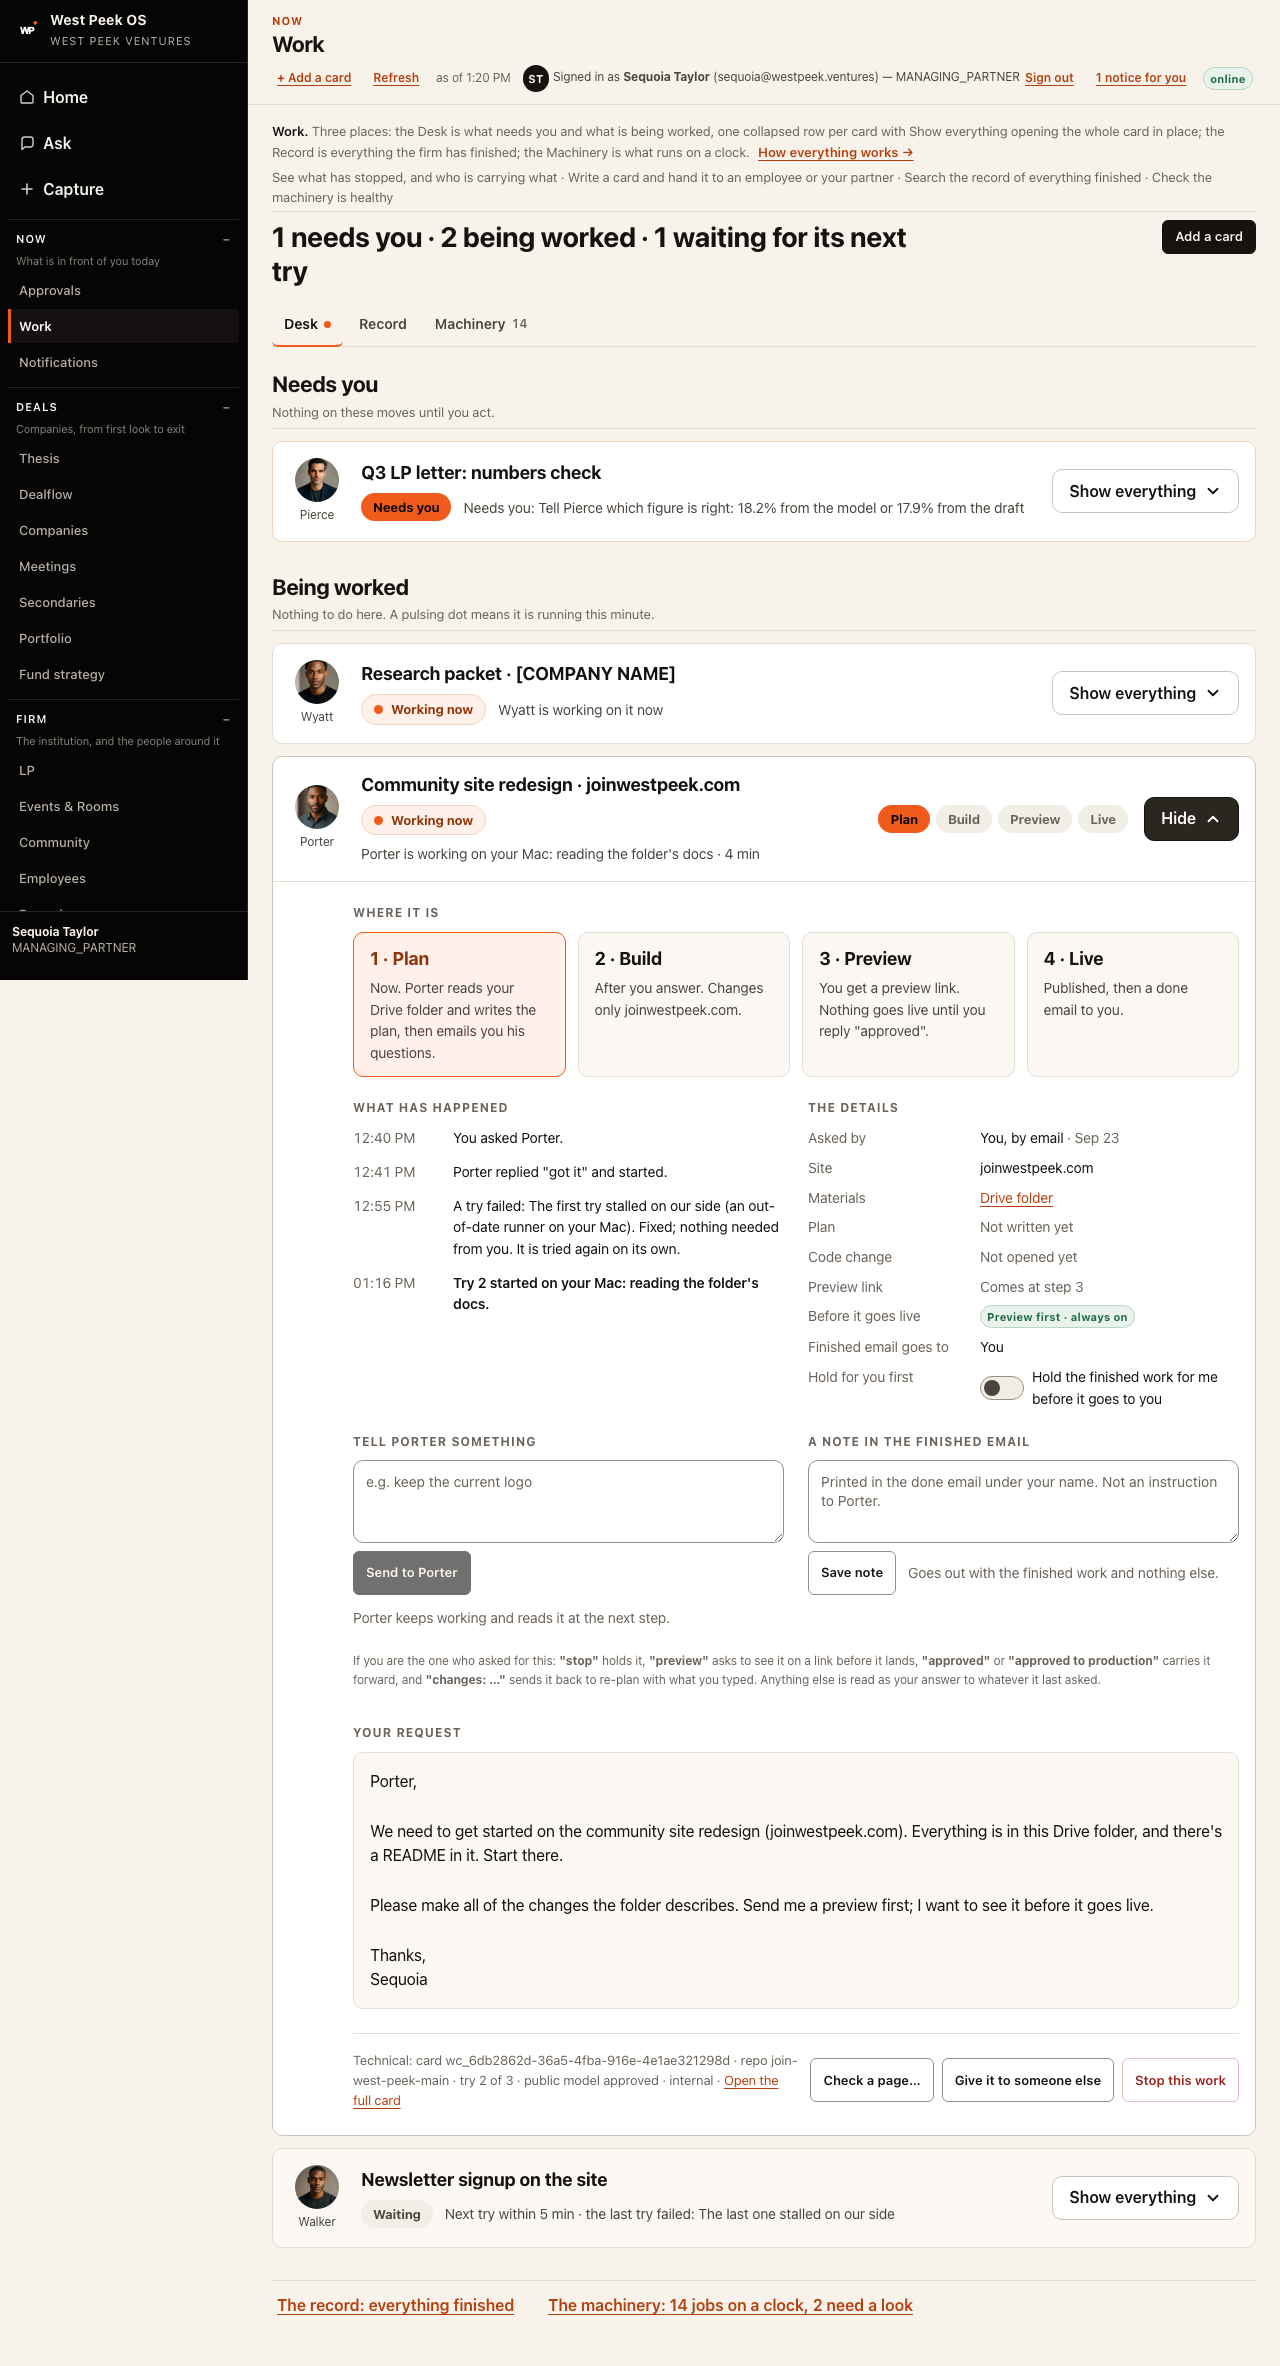
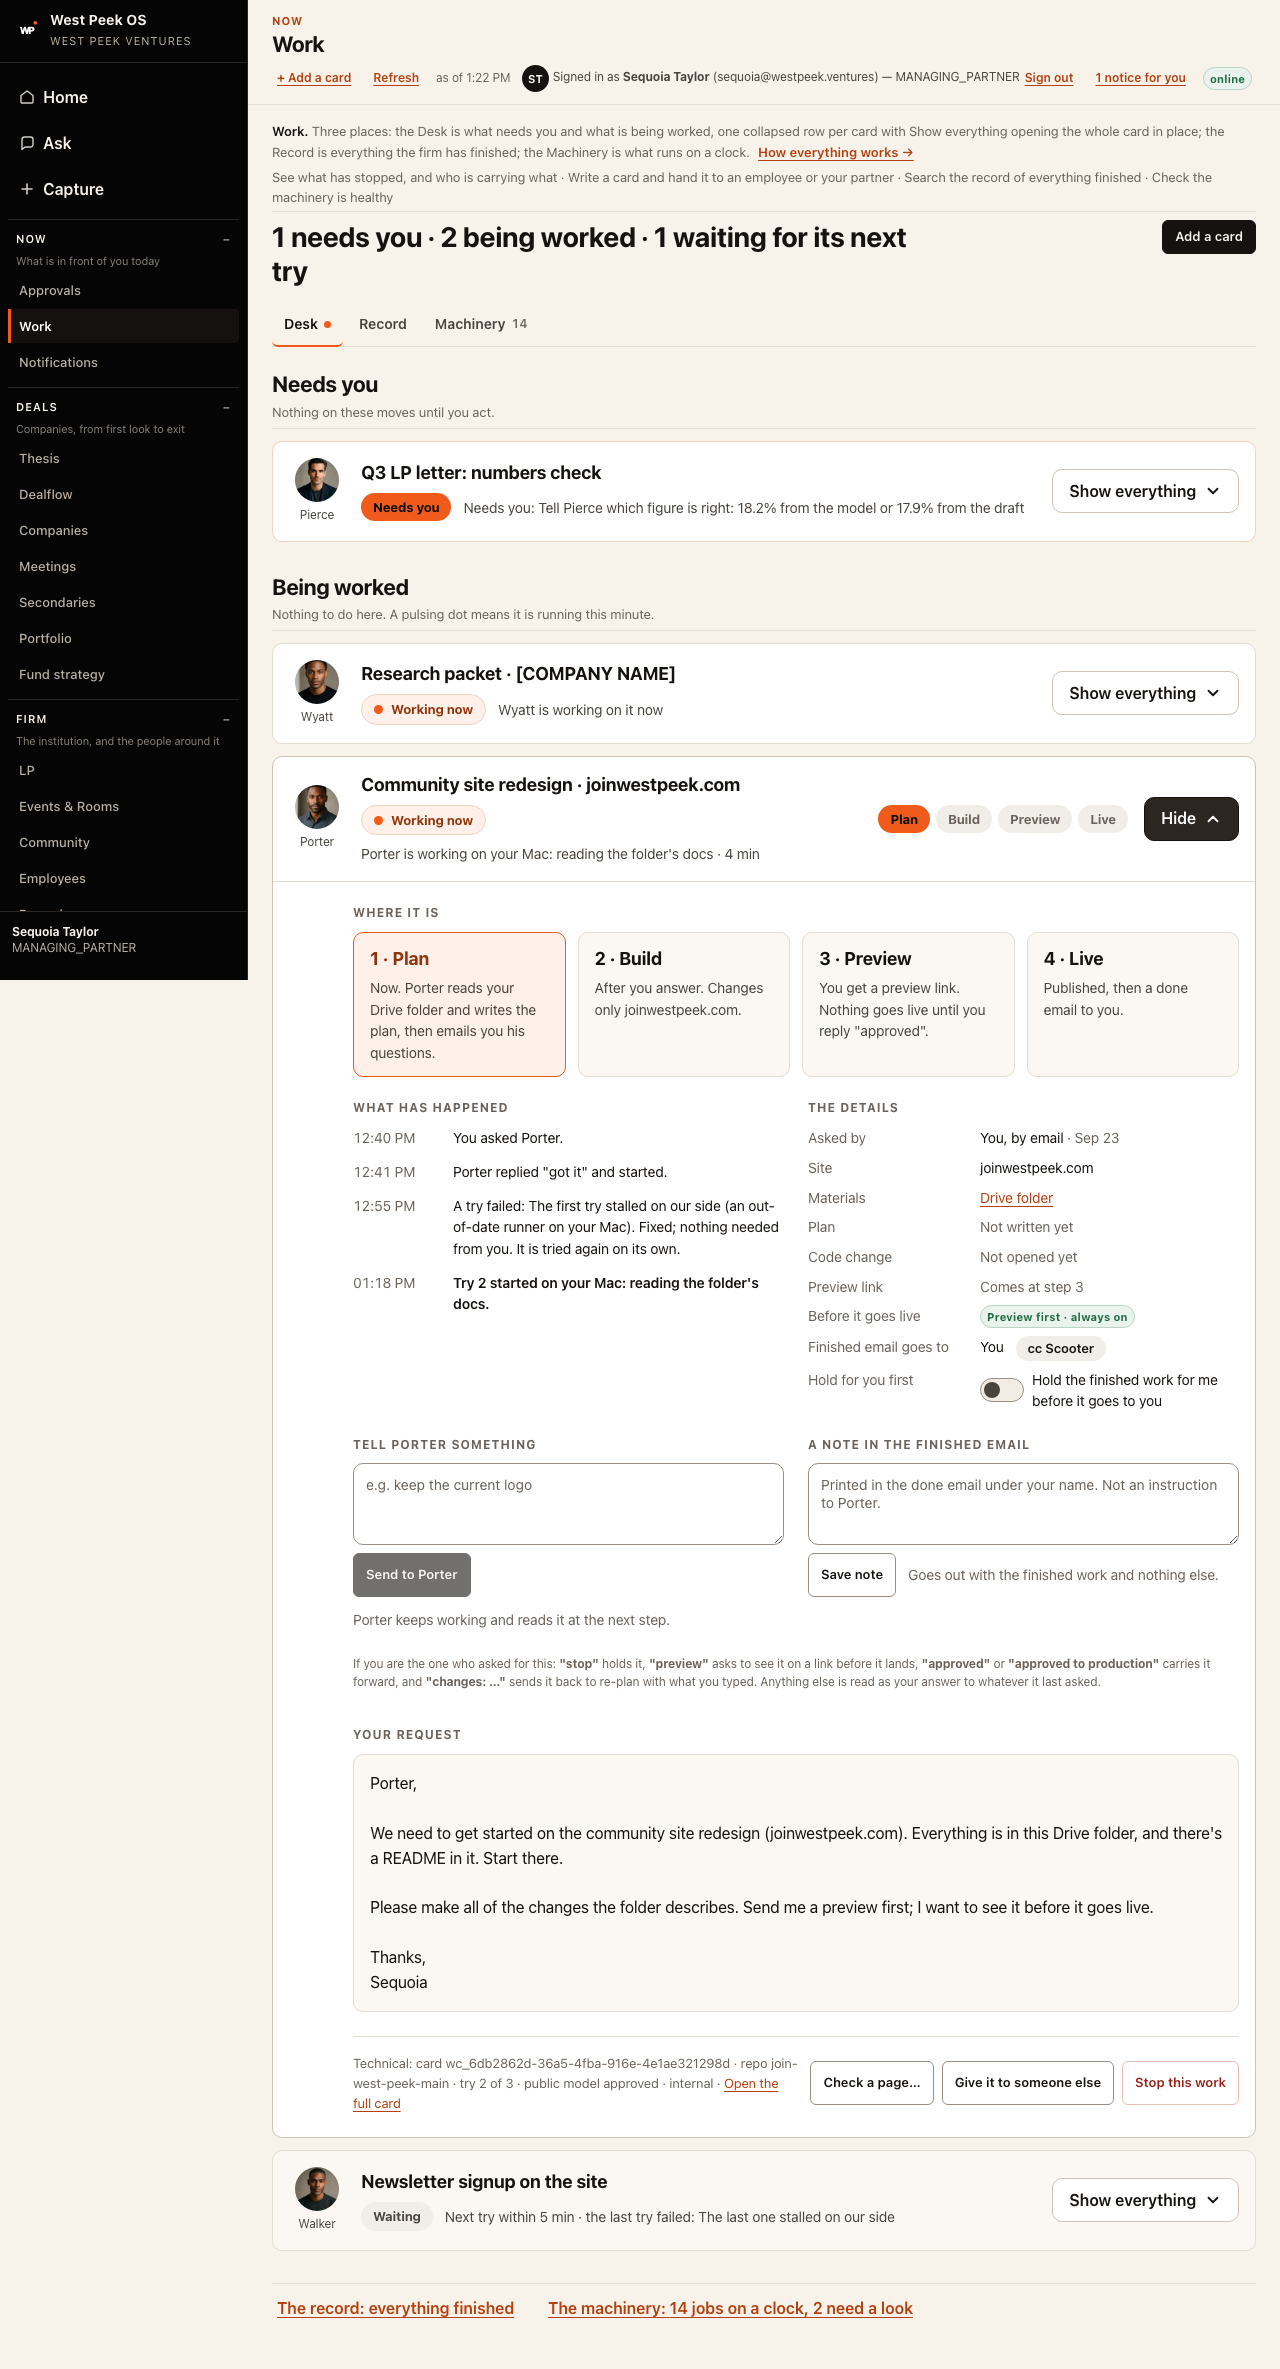
Finished email goes to: the cc chips from 0239 ("cc Scooter"), served on the board and pinned
Claude-Session: https://claude.ai/code/session_019F8z57N14BocFe6TBe7oiK

diff --git a/src/client/pages/work/CardExpanded.tsx b/src/client/pages/work/CardExpanded.tsx
@@ -56,6 +56,20 @@ export interface CardExpandedProps {
 
 const TRIES = 3;
 
+/** The partners cc'd on the finished email (0239), by first name — "cc Scooter". */
+function ccNames(json: string | null | undefined): string[] {
+  if (!json) return [];
+  try {
+    const list = JSON.parse(json) as unknown;
+    if (!Array.isArray(list)) return [];
+    return list
+      .filter((e): e is string => typeof e === "string" && e.trim().length > 0)
+      .map((e) => partnerByEmail(e)?.fullName.split(" ")[0] ?? e);
+  } catch {
+    return [];
+  }
+}
+
 /** The request as she wrote it, from the card's own `request_json`, before the site row exists. */
 function askFromRequest(json: string | null | undefined): string | null {
   if (!json) return null;
@@ -116,6 +130,17 @@ export function CardExpanded({
   const sitePreview = sitePreviewBadge(c);
   const recipient = recipientWords(c, me);
   const asked = askedBy(c, { id: me.id, email: me.email });
+  const cc = ccNames(c.cc_emails);
+  const recipientNode: ReactNode = (
+    <span className="wc-inline-list">
+      {recipient}
+      {cc.map((n) => (
+        <span key={n} className="wc-chip" data-testid={`work-card-cc-${c.id}`}>
+          cc {n}
+        </span>
+      ))}
+    </span>
+  );
 
   async function sendNote(id: string): Promise<void> {
     setBusy(true);
@@ -302,7 +327,7 @@ export function CardExpanded({
           onNavigate={onNavigate}
           site={site}
           owner={owner ?? "Porter"}
-          recipient={recipient}
+          recipient={recipientNode}
           timeline={timeline}
           lead={lead}
           tail={showMeFirst}
@@ -362,10 +387,10 @@ export function CardExpanded({
                     <dd>{readableDate(c.due_at)}</dd>
                   </>
                 )}
-                {(c.result_recipient || c.requested_by_email) && (
+                {(c.result_recipient || c.requested_by_email || cc.length > 0) && (
                   <>
                     <dt>Finished work goes to</dt>
-                    <dd>{recipient}</dd>
+                    <dd>{recipientNode}</dd>
                   </>
                 )}
                 {showMeFirst}

diff --git a/tests/workCardLiveStatus.test.ts b/tests/workCardLiveStatus.test.ts
@@ -280,7 +280,7 @@ describe("the board and the card page serve one title and one run", () => {
       owner_id: "aie_porter",
       kind: "WEB_PROPERTY_CHANGE",
     } as never);
-    await env.WP_OS_DB.prepare("UPDATE work_card SET assigned_from_card_id = ?2, requested_by_email = 'sequoia@westpeek.ventures' WHERE id = ?1").bind(card.id, parent.id).run();
+    await env.WP_OS_DB.prepare("UPDATE work_card SET assigned_from_card_id = ?2, requested_by_email = 'sequoia@westpeek.ventures', cc_emails = '[\"scooter@westpeek.ventures\"]' WHERE id = ?1").bind(card.id, parent.id).run();
     await env.WP_OS_DB.prepare("INSERT INTO web_property_change (work_card_id, target_repo, property_host, ask, phase, preview_only) VALUES (?1, 'join-west-peek-main', 'joinwestpeek.com', 'Porter, we need the redesign.', 'BUILD', 1)").bind(card.id).run();
     const claimed = new Date(Date.now() - 60_000).toISOString();
     await env.WP_OS_DB.prepare(
@@ -299,7 +299,9 @@ describe("the board and the card page serve one title and one run", () => {
     expect(row.current_run).toMatchObject({ status: "CLAIMED", progress_note: "building", run_kind: "LOCAL_JOB" });
 
     const page = (await (await handleGetWorkCard({ env, identity: SEQUOIA as never, params: { id: card.id }, request: req() } as never)).json()) as Record<string, unknown>;
-    for (const k of ["plain_title", "site_phase", "site_host", "site_preview_only", "current_run", "parent_title"]) expect(page[k], k).toEqual(row[k]);
+    // 0239: the cc the expanded card draws as "cc Scooter" is on the board too, not only on the card page.
+    expect(JSON.parse(String(row.cc_emails))).toEqual(["scooter@westpeek.ventures"]);
+    for (const k of ["plain_title", "site_phase", "site_host", "site_preview_only", "current_run", "parent_title", "cc_emails"]) expect(page[k], k).toEqual(row[k]);
 
     // And the one reader says the same thing about both.
     const a = liveStatus(row as never, ME);

diff --git a/src/worker/services/workCards.ts b/src/worker/services/workCards.ts
@@ -1189,6 +1189,9 @@ export async function handleWorkByOwner(ctx: RouteContext): Promise<Response> {
             -- reads to say "Working now" only while something actually holds the card — the
             -- sweep's lease — plus the step counter for the Technical line.
             wc.lease_until, COALESCE(wc.work_steps, 0) AS work_steps,
+            -- 0239: the partners cc'd on the finished email, for the expanded card's
+            -- "Finished email goes to" row (the single-card route serves it through SELECT *).
+            wc.cc_emails,
             -- A WEBSITE JOB'S OWN FACTS, for the plain title and the Plan → Build → Preview → Live
             -- track on the collapsed row (shared/work/siteChange.ts). NULL on every other card.
             wpc.property_host AS site_host, wpc.target_repo AS site_repo, wpc.phase AS site_phase,

diff --git a/src/client/pages/WebPropertyChangePanel.tsx b/src/client/pages/WebPropertyChangePanel.tsx
@@ -149,7 +149,7 @@ export function SiteDetails({
   gate?: ReactNode;
   cardId: string;
   onNavigate: (k: string) => void;
-  recipient: string;
+  recipient: ReactNode;
   lead?: ReactNode;
   /** Rows every card shares that belong after the site's own (the "Hold for you first" switch). */
   tail?: ReactNode;
@@ -392,7 +392,7 @@ export function WebPropertyChangePanel({
   /** The row, already fetched by the card (`useSiteChange`), so it is read once for this panel and the note beside it. */
   site?: { data: ChangeRow | null; loading: boolean; status: number | null };
   owner?: string;
-  recipient?: string;
+  recipient?: ReactNode;
   timeline?: ReactNode;
   lead?: ReactNode;
 }): JSX.Element {

diff --git a/src/client/styles.css b/src/client/styles.css
@@ -6994,6 +6994,13 @@ body {
 
 .wc-inline-list { display: inline-flex; flex-wrap: wrap; gap: var(--space-sm) var(--space-md); }
 .wc-quiet { color: var(--wp-muted); }
+.wc-chip {
+  padding: var(--space-3xs) var(--space-md);
+  border-radius: var(--radius-pill);
+  background: var(--wp-neutral-tint);
+  font-size: var(--text-sm);
+  font-weight: 600;
+}
 .wc-switch-row { display: flex; align-items: center; gap: var(--space-sm); }
 
 .wc-pair {

diff --git a/src/client/pages/work/types.ts b/src/client/pages/work/types.ts
@@ -99,6 +99,8 @@ export interface WorkCardRow {
   site_merge_sha?: string | null;
   site_publish_ready?: number | null;
   site_ask?: string | null;
+  /** 0239: a JSON list of partner addresses cc'd on the finished email. */
+  cc_emails?: string | null;
   looks?: Array<{
     id: string; objective: string; start_url: string; status: string;
     result_text: string | null; refusal_reason: string | null;
